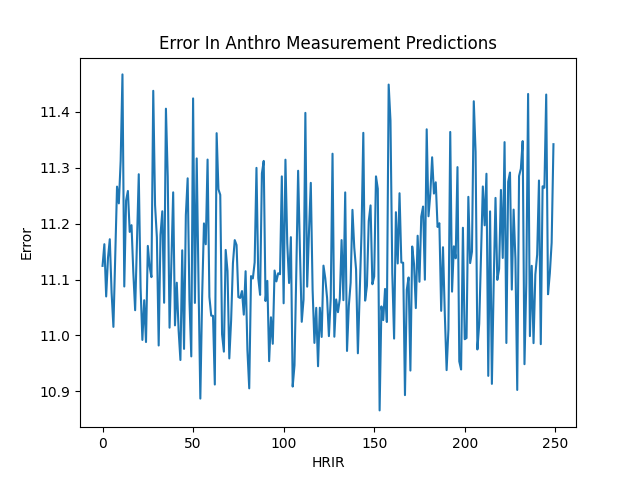
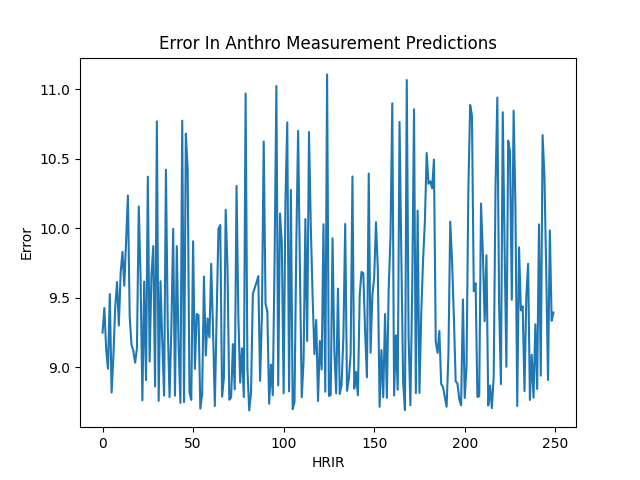
added reverse normalization

diff --git a/src/train_and_validate.py b/src/train_and_validate.py
@@ -43,7 +43,7 @@ class ModelTrainer:
         #Choose Adam Optimizer, learning rate
         optimizer = torch.optim.Adam(model.parameters(), lr=0.01)
         #Set iterations
-        epochs = 300
+        epochs = 80
         losses = []
         for i in range(epochs):
             # propgate forward
@@ -51,17 +51,17 @@ class ModelTrainer:
 
             #calculate loss
             lossAnthro = criterion(anthro_pred, anthro_train) 
-            totalLoss = lossAnthro
 
             #Keep track of losses
-            losses.append(totalLoss.detach().numpy())
+            losses.append(lossAnthro.detach().numpy())
 
             if i % 10 == 0:
-                print(f'Epoch: {i} and loss: {totalLoss}')
+                print(f'Epoch: {i} and loss: {lossAnthro}')
+                print(f'Total loss {lossAnthro}')
             
             #Do some backward propagation
             optimizer.zero_grad()
-            totalLoss.backward()
+            lossAnthro.backward()
             optimizer.step()
         # Plot losses
         trainLoss = plt.figure()

diff --git a/src/main.py b/src/main.py
@@ -33,20 +33,16 @@ class Main:
             # Make prediction
             anthro_pred = self.model.forward(input_normal)
 
-            # Reverse the normalization
-            reversed_normal_anthro = []
-            for tensor in anthro_pred:
-                reversed_vector = (tensor * self.trainer.hrirPos_std) + self.trainer.hrirPos_mean
-                reversed_normal_anthro.append(reversed_vector)
-            
-            #Find the average predictions across all hrirs
-            anthroPrediction = torch.mean(torch.stack(reversed_normal_anthro), dim=0).tolist()
+            # reverse normalization
+            anthro_pred = (anthro_pred * self.trainer.anthro_std) + self.trainer.anthro_mean
 
-            return anthroPrediction
+            anthro_pred = torch.mean(anthro_pred, dim=0)
+            
+            return anthro_pred
             
         
 
-    
+
 main = Main()
 main.trainAndTest()
 anthroPred = main.predictAnthro(3)
